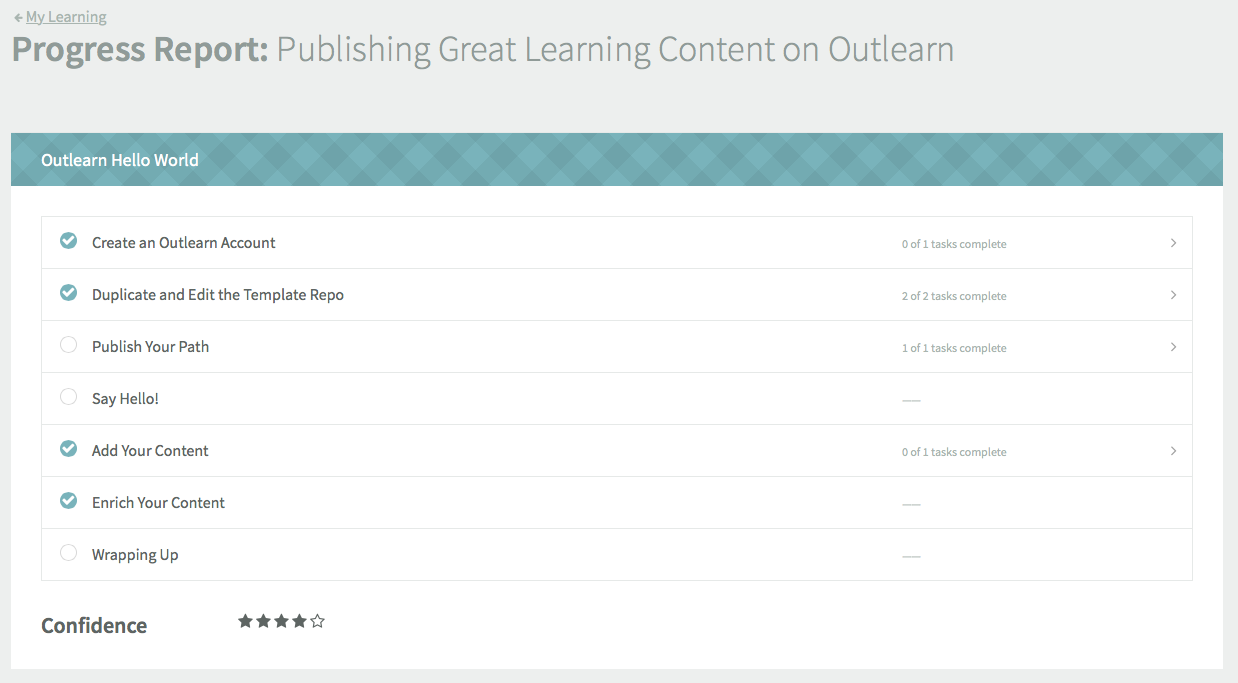
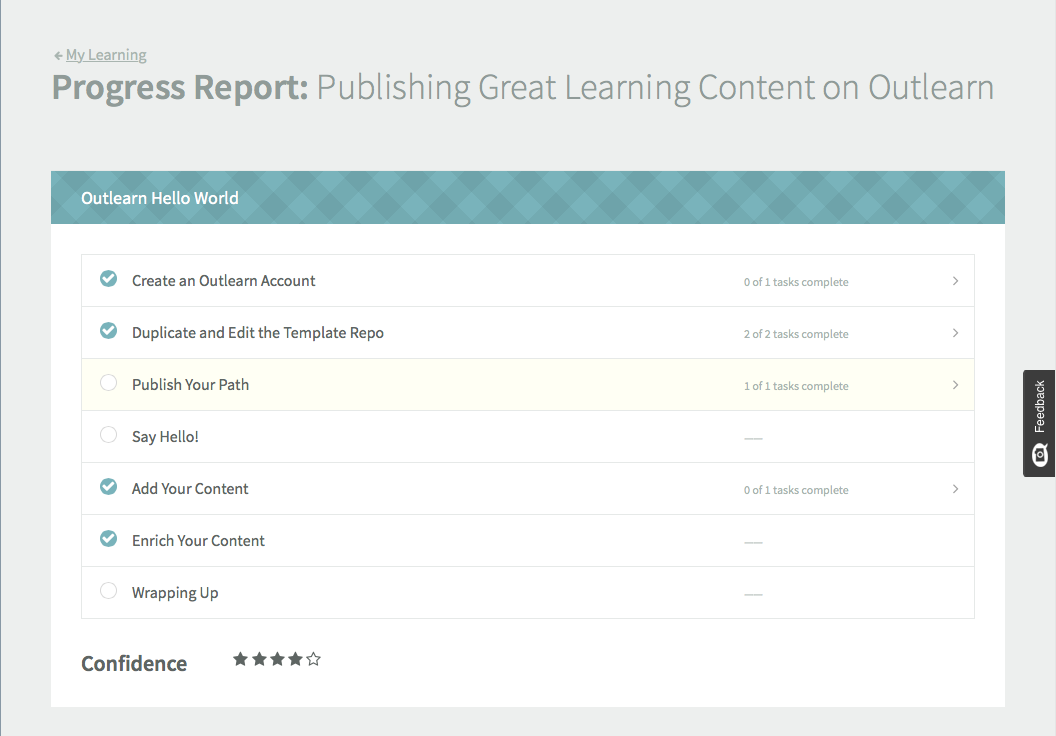
Explanations of images

diff --git a/modules/tour-outlearn.md b/modules/tour-outlearn.md
@@ -26,7 +26,7 @@ You need to [create an Outlearn account](https://pilot.outlearn.com/auth/join) t
 
 # Anatomy of a Path
 
-Learning Paths are core to the Outlearn experience. Each of them has an outline page where you can get a quick overview of what's inside the Path. As an example, check out the [outline for this Path](https://pilot.outlearn.com/learn/outlearn/start-learning).
+Learning Paths are core to the Outlearn experience. Each of them has an outline page where you can get a quick overview of what's inside the Path. As an example, check out the [outline for this Path](https://pilot.outlearn.com/learn/outlearn/start-learning). You can see a screenshot below.
 
 ![Outline page](https://raw.githubusercontent.com/outlearn-content/outlearn-publishing/master/images/outline.png)
 
@@ -44,7 +44,7 @@ There are a few different ways to move around a Path. You can move to the previo
 
 The top of the page shows a navigation bar that summarizes the whole Path. The outline page is a circle at the left. Each Page is represented by a dot and each Module by a bar. You can click on any dot or bar to move around.
 
-Each Module is made up of one or more Sections and they are listed on the right side of the page. You can click on the Sections titles to move around. Keyboard shortcuts for next and previous Section are `n` and `p` respectively. Your current Section is expanded in the nav bar with each Section shown separately and completed Sections highlighted.
+Each Module is made up of one or more Sections and they are listed on the right side of the page. You can click on the Sections titles to move around. Keyboard shortcuts for next and previous Section are `n` and `p` respectively. Your current Section is expanded in the nav bar with each Section shown separately and completed Sections highlighted. Below you can see a sample nav bar.
 
 ![Nav bar](https://raw.githubusercontent.com/outlearn-content/outlearn-publishing/master/images/nav-bar.png)
 
@@ -56,7 +56,7 @@ Each Module is made up of one or more Sections and they are listed on the right 
 
 Outlearn makes it super easy for individual developers and teams to track their learning progress. Each Section has a check box that you can check either at the end of the Section or from the list of Sections on the right. It's up to you to decide when you are "done" with a Section. Outlearn is built for professional developers and you know best whether you want to spend more time on a topic or move on.
 
-Most Modules also have tasks with checkboxes. Those are the things that the author thinks are most valuable for you to do. Some tasks also have a deliverable where you need to paste in some text to complete the task. If you want to see at a glance how you are doing with a path and what you submitted as deliverables, navigate to [My Learning](https://pilot.outlearn.com/my-learning) and choose the Path you want to see. If you are learning a Path together with you organization, the person with admin rights for the organizations Outlearn account can also see your progress and submissions.
+Most Modules also have tasks with checkboxes. Those are the things that the author thinks are most valuable for you to do. Some tasks also have a deliverable where you need to paste in some text to complete the task. If you want to see at a glance how you are doing with a path and what you submitted as deliverables, navigate to [My Learning](https://pilot.outlearn.com/my-learning) and choose the Path you want to see. If you are learning a Path together with you organization, the person with admin rights for the organizations Outlearn account can also see your progress and submissions. Below is an example Progress Report for this path.
 
 ![Progress report](https://raw.githubusercontent.com/outlearn-content/outlearn-publishing/master/images/progress.png)
 
